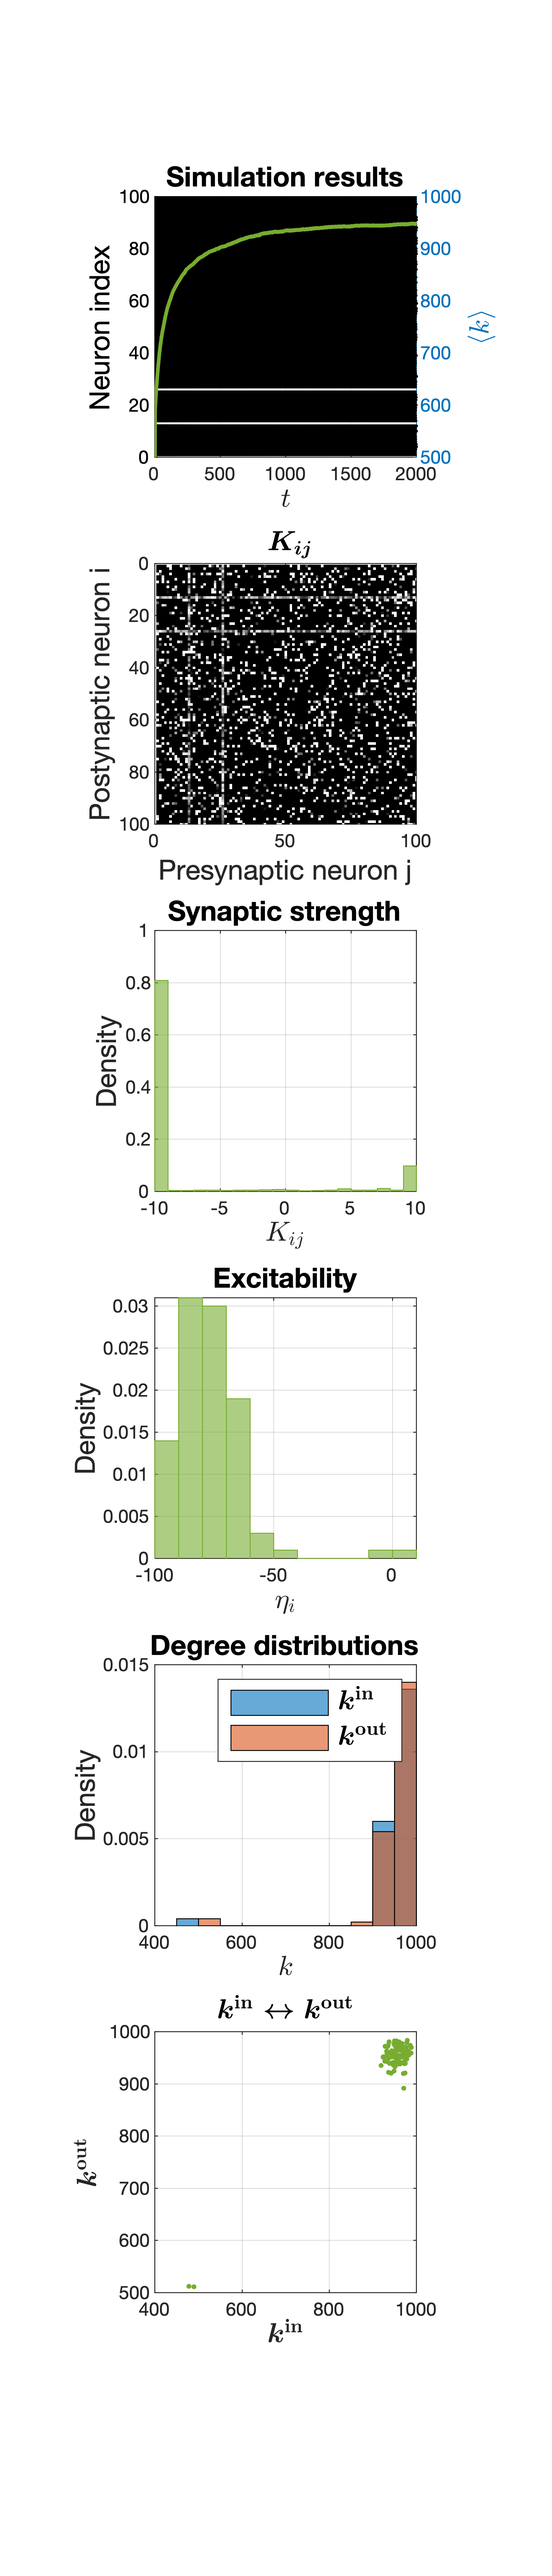
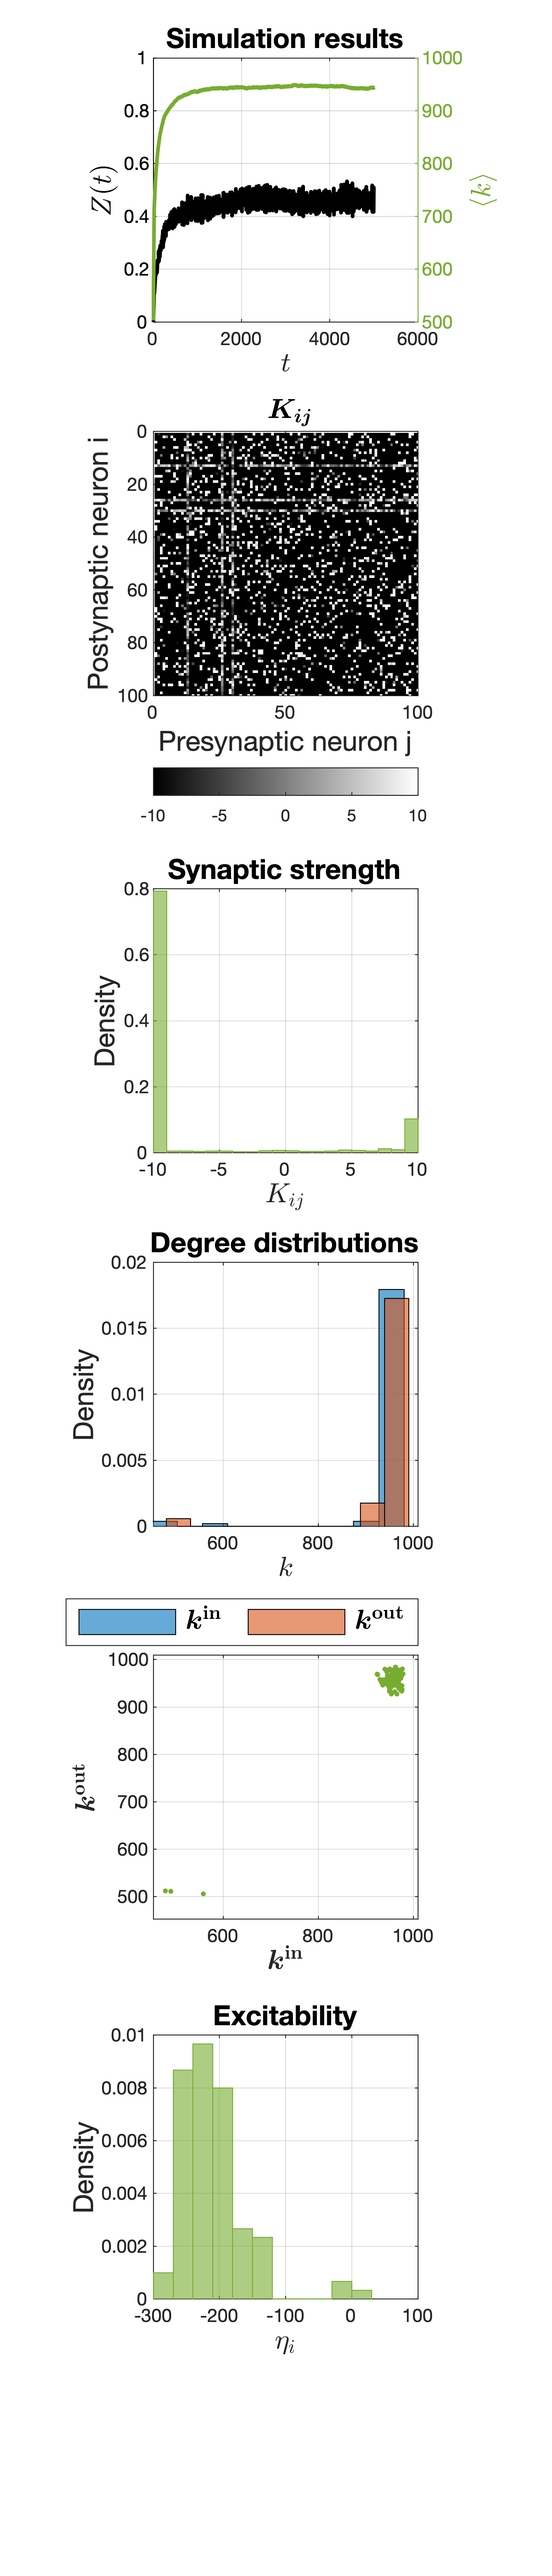
getting closer to an appropriate result

diff --git a/Full scale simulations/STDPandIP.m b/Full scale simulations/STDPandIP.m
@@ -10,7 +10,7 @@ set(groot,'DefaultAxesYGrid','on')
 
 titlefont = 15;
 labelfont = 15;
-export = true;
+export = false;
 
 %% Make a GPU init handle:
 if gpuDeviceCount > 0
@@ -20,13 +20,13 @@ end
 initarray = make_GPUhandle();
 
 %% Theta model parameters:
-h = 0.01; tnow = h; tend = 2000;
+h = 0.01; tnow = h; tend = 100;
 
-pars.N = 100;
+pars.N = 25;
 pars.a_n = 0.666666666666666666667;
 seed = 2; rng(seed);
 IC = linspace(0, 2*pi - (2*pi)/(pars.N),pars.N)';
-pars.e = 0; %randcauchy(seed, pars.eta0, pars.delta, pars.N);
+pars.e = zeros(pars.N, 1); %randcauchy(seed, pars.eta0, pars.delta, pars.N);
 
 KMAX = 10; etaMAX = 10;
 
@@ -36,11 +36,9 @@ STDP = struct('window', @Kempter1999Window, 'Kupdate', @(K, W) K + W, 'w_i', 1.0
 plastopts = struct('SP', STDP, 'KMAX', KMAX, 'etaMAX', etaMAX);
 
 [t, thetas_full, K, Kmeans, pars] = DOPRI_simulatenetwork_adaptive(tnow,tend,IC,h,pars,plastopts);
-drawthetas = spikesNaN(thetas_full);
-z = orderparameter(thetas_full);
+% drawthetas = spikesNaN(thetas_full);
 
-STDPfigure(pars, plastopts, t, drawthetas, K, Kmeans, titlefont, labelfont, 'STDPKempter', '#0072BD');
-disp('Made STDPKempter figure')
+STDPfigure(pars, plastopts, t, thetas_full, K, Kmeans, titlefont, labelfont, 'STDPKempter', '#0072BD', export);
 end
 
 %% 2. Song window, no IP
@@ -52,8 +50,7 @@ plastopts = struct('SP', STDP, 'KMAX', KMAX, 'etaMAX', etaMAX);
 drawthetas = spikesNaN(thetas_full);
 z = orderparameter(thetas_full);
 
-STDPfigure(pars, plastopts, t, drawthetas, K, Kmeans, titlefont, labelfont, 'STDPSong', '#D95319');
-disp('Made STDPSong figure')
+STDPfigure(pars, plastopts, t, thetas_full, K, Kmeans, titlefont, labelfont, 'STDPSong', '#D95319', export);
 end
 
 %% 3. ChrollCannon window, no IP
@@ -62,11 +59,8 @@ STDP = struct('window', @ChrolCannon2012Window, 'Kupdate', @(K, W) K + KMAX*W);
 plastopts = struct('SP', STDP, 'KMAX', KMAX, 'etaMAX', etaMAX);
 
 [t, thetas_full, K, Kmeans, pars] = DOPRI_simulatenetwork_adaptive(tnow,tend,IC,h,pars,plastopts);
-drawthetas = spikesNaN(thetas_full);
-z = orderparameter(thetas_full);
 
-STDPfigure(pars, plastopts, t, drawthetas, K, Kmeans, titlefont, labelfont, 'STDPChrolCannon', '#77AC30');
-disp('Made STDPChrolCannon figure')
+STDPfigure(pars, plastopts, t, thetas_full, K, Kmeans, titlefont, labelfont, 'STDPChrolCannon', '#77AC30', export);
 end
 
 %% 4. Kempter window, with IP
@@ -75,11 +69,8 @@ STDP = struct('window', @Kempter1999Window, 'Kupdate', @(K, W) K + W, 'w_i', 1.0
 plastopts = struct('SP', STDP, 'IP', true, 'KMAX', KMAX, 'etaMAX', etaMAX);
 
 [t, thetas_full, K, Kmeans, pars] = DOPRI_simulatenetwork_adaptive(tnow,tend,IC,h,pars,plastopts);
-drawthetas = spikesNaN(thetas_full);
-z = orderparameter(thetas_full);
 
-STDPandIPfigure(pars, plastopts, t, drawthetas, K, Kmeans, titlefont, labelfont, 'STDPandIPKempter', '#0072BD');
-disp('Made STDPandIPKempter figure')
+STDPfigure(pars, plastopts, t, thetas_full, K, Kmeans, titlefont, labelfont, 'STDPandIPKempter', '#0072BD', export);
 end
 
 %% 5. Song window, with IP
@@ -88,11 +79,8 @@ STDP = struct('window', @Song2017Window, 'Kupdate', @(K, W) K + KMAX*W);
 plastopts = struct('SP', STDP, 'IP', true, 'KMAX', KMAX, 'etaMAX', etaMAX);
 
 [t, thetas_full, K, Kmeans, pars] = DOPRI_simulatenetwork_adaptive(tnow,tend,IC,h,pars,plastopts);
-drawthetas = spikesNaN(thetas_full);
-z = orderparameter(thetas_full);
 
-STDPandIPfigure(pars, plastopts, t, drawthetas, K, Kmeans, titlefont, labelfont, 'STDPandIPSong', '#D95319');
-disp('Made STDPandIPSong figure')
+STDPfigure(pars, plastopts, t, thetas_full, K, Kmeans, titlefont, labelfont, 'STDPandIPSong', '#D95319', export);
 end
 
 %% 6. ChrollCannon window, with IP
@@ -101,125 +89,109 @@ STDP = struct('window', @ChrolCannon2012Window, 'Kupdate', @(K, W) K + KMAX*W);
 plastopts = struct('SP', STDP, 'IP', true, 'KMAX', KMAX, 'etaMAX', etaMAX);
 
 [t, thetas_full, K, Kmeans, pars] = DOPRI_simulatenetwork_adaptive(tnow,tend,IC,h,pars,plastopts);
-drawthetas = spikesNaN(thetas_full);
-z = orderparameter(thetas_full);
 
-STDPandIPfigure(pars, plastopts, t, drawthetas, K, Kmeans, titlefont, labelfont, 'STDPandIPChrolCannon', '#77AC30');
-disp('Made STDPandIPChrolCannon figure')
+STDPfigure(pars, plastopts, t, thetas_full, K, Kmeans, titlefont, labelfont, 'STDPandIPChrolCannon', '#77AC30', export);
 end
 
 %% Plotting the results
+clc; close all;
 
-function fighandle = STDPfigure(pars, plastopts, t, thetas, K, Kmeans, titlefont, labelfont, figname, color)
+STDPfigure(pars, plastopts, t, thetas_full, K, Kmeans, titlefont, labelfont, 'test', '#D95319', true);
+
+% STDPfigure(pars, plastopts, t, thetas_full, K, Kmeans, titlefont, labelfont, 'STDPandIPSong', '#D95319', export);
+
+function fighandle = STDPfigure(pars, plastopts, t, thetas, K, Kmeans, titlefont, labelfont, figname, color, export)
+numfigs = 5;
+e = 0;
+if isfield(plastopts, 'IP')
+    numfigs = 6;
+    e = 1;
+end
+
 fighandle = figure('Renderer', 'painters', 'Position', [0, 2000, 300, 1400]); hold on; box on;
 
-subplot(5,1,1); hold on; axis square; box on;
+sbplt(1) = subplot(numfigs,1,1); hold on; axis square; box on;
 title('Simulation results', 'FontSize', titlefont)
-yyaxis left
-rasterplot(t, thetas, labelfont, 0.1);
-
+yyaxis left; ylim([0, 1]);
+z = orderparameter(thetas);
+% windowSize = 500;
+% b = (1/windowSize)*ones(1,windowSize);
+b = normpdf(-3:0.005:3, 0, 1);
+b = b/sum(b);
+a = 1;
+zfilt = filter(b,a,z);
+ylabel('$Z(t)$','Interpreter','latex', 'FontSize', labelfont)
+plot(t, abs(zfilt), '-k', 'LineWidth', 2)
+% rasterplot(t, thetas, labelfont, 0.1);
 yyaxis right
 plot(t, Kmeans(2,:), 'LineWidth', 2, 'Color', color)
-ax = gca; ax.YAxis(1).Color = [0, 0, 1]; ax.YAxis(2).Color = "#0072BD";
+ax = gca; ax.YAxis(1).Color = [0, 0, 1]; ax.YAxis(2).Color = color;
 xlabel('$t$','Interpreter','latex', 'FontSize', labelfont)
 ylabel('$\langle k \rangle$','Interpreter','latex', 'FontSize', labelfont)
 ax = gca; ax.YAxis(1).Color = [0, 0, 0];
+pos = sbplt(1).Position;
+w = 0.09; y = 0.08/16; we = 0.0001;
+sbplt(1).Position = [pos(1), pos(2) + w/2 + 1.5*e*y, pos(3), pos(4)];
 
-subplot(5,1,2); hold on; axis square; box on;
+sbplt(2) = subplot(numfigs,1,2); hold on; axis square; box on;
 title('{ \boldmath $K_{ij} $}', 'Interpreter', 'latex', 'FontSize', titlefont)
 xlim([0, pars.N]); ylim([0, pars.N]);
 xlabel('Presynaptic neuron j', 'FontSize', labelfont)
 ylabel('Postynaptic neuron i', 'FontSize', labelfont)
 imagesc(K); colormap(gray);
 set(gca,'YDir','reverse');
+colorbar('Location', 'southoutside')
+pos = sbplt(2).Position;
+sbplt(2).Position = [pos(1) - w/2, pos(2) + y + w/2, pos(3) + w, pos(4)];
 
-subplot(5,1,3); hold on; axis square; axis on; box on;
-histogram(K, 'Normalization', 'pdf', 'FaceColor', color, 'EdgeColor', color)
-title('Synaptic strength', 'FontSize', titlefont)
-xlabel('$K_{ij}$','Interpreter','latex', 'FontSize', labelfont)
-ylabel('Density', 'FontSize', labelfont)
-% set(gca,'XTick', [-plastopts.KMAX, 0, plastopts.KMAX], 'XTickLabel',{'-$$K{\rm max}$$','0','$$K{\rm max}$$'}, 'TickLabelInterpreter', 'latex')
-
-subplot(5,1,4); hold on; axis square; box on;
-title('Degree distributions', 'FontSize', titlefont)
-degrees_i = sum(abs(K),2);
-degrees_o = sum(abs(K),1);
-histogram(degrees_i, 'Normalization', 'pdf')
-histogram(degrees_o, 'Normalization', 'pdf')
-legend('\boldmath$k^{\rm in}$', '\boldmath$k^{\rm out}$', 'Interpreter', 'latex', 'FontSize', labelfont)
-xlabel('$k$','Interpreter','latex', 'FontSize', labelfont)
-ylabel('Density', 'FontSize', labelfont)
-
-subplot(5,1,5); hold on; axis square; box on;
-title('{ \boldmath $k^{\rm in} \leftrightarrow k^{\rm out}$ }', 'Interpreter', 'latex', 'FontSize', titlefont)
-scatter(degrees_i, degrees_o, '.', 'MarkerEdgeColor', color, 'MarkerFaceColor', color)
-xlabel('\boldmath$k^{\rm in}$','Interpreter','latex', 'FontSize', labelfont)
-ylabel('\boldmath$k^{\rm out}$','Interpreter','latex', 'FontSize', labelfont)
-
-MP=get(0,'MonitorPositions');
-if size(MP,1)>1
-    pos=get(fighandle,'Position');
-    pause(0.01); % this seems sometimes necessary on a Mac
-    set(fighandle,'Position',[pos(1,2)+MP(2,1:2) pos(3:4)]);
-end
-
-print(fighandle, ['../Figures/Learning/', figname, '.png'], '-dpng', '-r400')
-
-end
-
-
-function fighandle = STDPandIPfigure(pars, plastopts, t, thetas, K, Kmeans, titlefont, labelfont, figname, color)
-fighandle = figure('Renderer', 'painters', 'Position', [0, 2000, 300, 1400]); hold on; box on;
-
-subplot(6,1,1); hold on; axis square; box on;
-title('Simulation results', 'FontSize', titlefont)
-yyaxis left
-rasterplot(t, thetas, labelfont, 0.1);
-
-yyaxis right
-plot(t, Kmeans(2,:), 'LineWidth', 2, 'Color', color)
-ax = gca; ax.YAxis(1).Color = [0, 0, 1]; ax.YAxis(2).Color = "#0072BD";
-xlabel('$t$','Interpreter','latex', 'FontSize', labelfont)
-ylabel('$\langle k \rangle$','Interpreter','latex', 'FontSize', labelfont)
-ax = gca; ax.YAxis(1).Color = [0, 0, 0];
-
-subplot(6,1,2); hold on; axis square; box on;
-title('{ \boldmath $K_{ij} $}', 'Interpreter', 'latex', 'FontSize', titlefont)
-xlim([0, pars.N]); ylim([0, pars.N]);
-xlabel('Presynaptic neuron j', 'FontSize', labelfont)
-ylabel('Postynaptic neuron i', 'FontSize', labelfont)
-imagesc(K/plastopts.KMAX); colormap(gray);
-set(gca,'YDir','reverse');
-
-subplot(6,1,3); hold on; axis square; axis on; box on;
+sbplt(3) = subplot(numfigs,1,3); hold on; axis square; axis on; box on;
 histogram(K, 'Normalization', 'pdf', 'FaceColor', color, 'EdgeColor', color)
 title('Synaptic strength', 'FontSize', titlefont)
 xlabel('$K_{ij}$','Interpreter','latex', 'FontSize', labelfont)
 ylabel('Density', 'FontSize', labelfont)
 % set(gca,'XTick', [-plastopts.KMAX, 0, plastopts.KMAX], 'XTickLabel',{'-$$K{\rm max}$$','0','$$K{\rm max}$$'}, 'TickLabelInterpreter', 'latex', 'FontSize', labelfont)
+pos = sbplt(3).Position;
+sbplt(3).Position = [pos(1), pos(2) + w/4 - 1.5*e*y, pos(3), pos(4)];
 
-subplot(6,1,4); hold on; axis square; axis on; box on;
+sbplt(4) = subplot(numfigs,1,4); hold on; axis square; box on;
+title('Degree distributions', 'FontSize', titlefont)
+degrees_i = sum(abs(K),2)';
+degrees_o = sum(abs(K),1);
+mindegree = min([degrees_i, degrees_o]);
+maxdegree = max([degrees_i, degrees_o]);
+dist = maxdegree - mindegree; perc = 0.05*dist;
+numbins = round(sqrt(pars.N));
+xlim([mindegree - perc, maxdegree + perc]);
+histogram(degrees_i, numbins, 'Normalization', 'pdf')
+histogram(degrees_o, numbins, 'Normalization', 'pdf')
+legend('\boldmath$k^{\rm in}$', '\boldmath$k^{\rm out}$', 'Interpreter', 'latex', 'FontSize', labelfont-4, 'Location', 'southoutside', 'Orientation','horizontal')
+xlabel('$k$','Interpreter','latex', 'FontSize', labelfont)
+ylabel('Density', 'FontSize', labelfont)
+pos = sbplt(4).Position;
+h = 0.045;
+sbplt(4).Position = [pos(1), pos(2) - h/2 - 2*e*y, pos(3), pos(4) + h];
+
+sbplt(5) = subplot(numfigs,1,5); hold on; axis square; box on;
+xlim([mindegree - perc, maxdegree + perc]);
+ylim([mindegree - perc, maxdegree + perc]);
+% title('{ \boldmath $k^{\rm in} \leftrightarrow k^{\rm out}$ }', 'Interpreter', 'latex', 'FontSize', titlefont)
+scatter(degrees_i, degrees_o, '.', 'MarkerEdgeColor', color, 'MarkerFaceColor', color)
+xlabel('\boldmath$k^{\rm in}$','Interpreter','latex', 'FontSize', labelfont)
+ylabel('\boldmath$k^{\rm out}$','Interpreter','latex', 'FontSize', labelfont)
+pos = sbplt(5).Position;
+sbplt(5).Position = [pos(1), pos(2) + h/4 - 4*e*y, pos(3), pos(4)];
+
+if isfield(plastopts, 'IP')
+sbplt(6) = subplot(numfigs,1,6); hold on; axis square; axis on; box on;
 histogram(pars.e, 'Normalization', 'pdf', 'FaceColor', color, 'EdgeColor', color)
 title('Excitability', 'FontSize', titlefont)
 xlabel('$\eta_{i}$','Interpreter','latex', 'FontSize', labelfont)
 ylabel('Density', 'FontSize', labelfont)
 % set(gca,'XTick', [-plastopts.etaMAX, 0, plastopts.etaMAX], 'XTickLabel',{'-$$\eta{\rm max}$$','0','$$\eta{\rm max}$$'}, 'TickLabelInterpreter', 'latex', 'FontSize', labelfont)
+pos = sbplt(6).Position;
+sbplt(6).Position = [pos(1), pos(2) + w/4 - 5*e*y, pos(3), pos(4)];
+end
 
-subplot(6,1,5); hold on; axis square; box on;
-title('Degree distributions', 'FontSize', titlefont)
-degrees_i = sum(abs(K),2);
-degrees_o = sum(abs(K),1);
-histogram(degrees_i, 'Normalization', 'pdf')
-histogram(degrees_o, 'Normalization', 'pdf')
-legend('\boldmath$k^{\rm in}$', '\boldmath$k^{\rm out}$', 'Interpreter', 'latex', 'FontSize', labelfont)
-xlabel('$k$','Interpreter','latex', 'FontSize', labelfont)
-ylabel('Density', 'FontSize', labelfont)
-
-subplot(6,1,6); hold on; axis square; box on;
-title('{ \boldmath $k^{\rm in} \leftrightarrow k^{\rm out}$ }', 'Interpreter', 'latex', 'FontSize', titlefont)
-scatter(degrees_i, degrees_o, '.', 'MarkerEdgeColor', color, 'MarkerFaceColor', color)
-xlabel('\boldmath$k^{\rm in}$','Interpreter','latex', 'FontSize', labelfont)
-ylabel('\boldmath$k^{\rm out}$','Interpreter','latex', 'FontSize', labelfont)
 
 MP=get(0,'MonitorPositions');
 if size(MP,1)>1
@@ -228,6 +200,8 @@ if size(MP,1)>1
     set(fighandle,'Position',[pos(1,2)+MP(2,1:2) pos(3:4)]);
 end
 
+if export
 print(fighandle, ['../Figures/Learning/', figname, '.png'], '-dpng', '-r400')
-
+end
+disp(['Made ', figname, ' figure'])
 end
